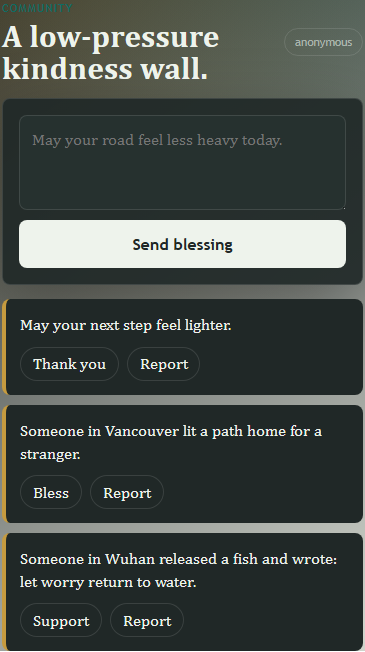
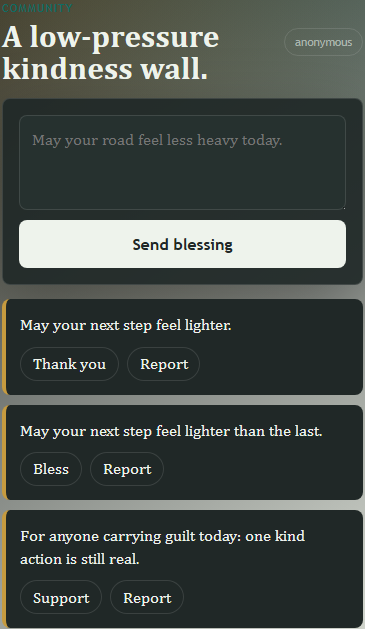
Add orchestration and shared catalog contracts

diff --git a/prototype/data.js b/prototype/data.js
@@ -17,14 +17,14 @@ window.FOOBOW_DATA = {
     },
     blessings: [
       {
-        id: "vancouver-path",
-        body: "Someone in Vancouver lit a path home for a stranger.",
+        id: "blessing_001",
+        body: "May your next step feel lighter than the last.",
         reaction: "Bless",
         reported: false
       },
       {
-        id: "wuhan-ripple",
-        body: "Someone in Wuhan released a fish and wrote: let worry return to water.",
+        id: "blessing_002",
+        body: "For anyone carrying guilt today: one kind action is still real.",
         reaction: "Support",
         reported: false
       }

diff --git a/apps/mobile/src/foobowData.ts b/apps/mobile/src/foobowData.ts
@@ -105,6 +105,6 @@ export const mapSpots: MapSpot[] = [
 ];
 
 export const initialBlessings = [
-  "Someone in Vancouver lit a path home for a stranger.",
-  "Someone in Wuhan released a fish and wrote: let worry return to water."
+  "May your next step feel lighter than the last.",
+  "For anyone carrying guilt today: one kind action is still real."
 ];

diff --git a/prototype/index.html b/prototype/index.html
@@ -153,11 +153,11 @@
           </form>
           <div class="blessing-list" id="blessingList">
             <article class="blessing">
-              <p>Someone in Vancouver lit a path home for a stranger.</p>
+              <p>May your next step feel lighter than the last.</p>
               <button type="button">Bless</button>
             </article>
             <article class="blessing">
-              <p>Someone in Wuhan released a fish and wrote: let worry return to water.</p>
+              <p>For anyone carrying guilt today: one kind action is still real.</p>
               <button type="button">Support</button>
             </article>
           </div>

diff --git a/docs/plugin-and-ai-orchestration.md b/docs/plugin-and-ai-orchestration.md
@@ -1,0 +1,59 @@
+# Plugin And AI Orchestration
+
+## Installed Plugin Inventory
+
+Foobow should use the currently available OpenAI plugin set this way:
+
+| Plugin | Status | Role In This Project | Setup Action |
+| --- | --- | --- | --- |
+| Browser | Installed | Local PA/QA, responsive checks, clickable prototype inspection, localhost verification | Use for product assurance before accepting UI changes |
+| GitHub | Installed | Repo status, pushes, CI checks, PR/issue work when credentials are available | Prefer for remote CI/PR work; fall back to `gh` only when needed |
+| Chrome | Installed | Checks that need the user's logged-in Chrome session | Use only when explicit Chrome state is required |
+| Computer Use | Installed | Windows desktop/terminal recovery when CLI/browser routes fail | Use sparingly for local app setup or auth flows |
+| Documents | Installed | Product specs, review docs, release notes in `.docx` form | Optional for stakeholder-ready documents |
+| Presentations | Installed | Pitch decks or investor/product presentations | Optional after product scope stabilizes |
+| Spreadsheets | Installed | Roadmaps, QA matrices, budget/donation models | Optional for planning and ops models |
+| Canva | Installed | Marketing visuals, presentation variants, social assets | Optional for external design collateral |
+
+No additional plugin is required for the current Foobow sprint. The useful setup is operational: keep Browser, GitHub, and Computer Use available for QA, CI, and Windows recovery; keep Documents/Presentations/Spreadsheets/Canva available for later go-to-market artifacts.
+
+## Plugin Usage Rules
+
+- Use Browser for real UI/UX acceptance, not just unit tests.
+- Use GitHub or `gh` to inspect remote CI after every push when the approval layer permits it.
+- Use Computer Use only when local auth or GUI state cannot be handled by shell/browser tools.
+- Use Canva only for product/design assets, not for source-of-truth product requirements.
+- Keep repo source-of-truth in markdown, tests, source code, and CI.
+
+## AI Agent Roles
+
+| Agent | Primary Role | Good Assignments | Avoid |
+| --- | --- | --- | --- |
+| Codex 5.5 | Orchestrator, implementation, tests, integration, final review | Repo edits, CI, DB/API work, browser QA, commits | Long speculative planning when another agent is below quota |
+| Claude 4.8 | Architecture review, product critique, copy review | Abstract plans, non-sensitive docs, design critique | Private repo context unless the user explicitly approves external transfer |
+| Gemini 3.5 | Broad ideation, task decomposition, alternate approaches | High-volume backlog shaping, copy variants, lightweight plans | Final code authority or private repo dumps without approval |
+
+## Usage Rotation Rules
+
+- Under 60% load: agent is available for normal assignments.
+- 60-79% load: agent should receive only high-fit tasks.
+- 80% or higher: rotate away from that agent and record the expected recovery time if known.
+- Unknown recovery time: mark `Unknown` and recheck on the next orchestration pass.
+- External AI use must respect privacy: do not send private repository content outside the local environment without explicit user approval.
+
+## VibeOrchestrator Loop
+
+1. Read `USAGE_DASHBOARD.md`, `docs/task-board.md`, `docs/project-plan.md`, and `git status`.
+2. Check available plugins/tools for the task type.
+3. Pick 3-5 tasks that are safe to complete without user credentials.
+4. Assign work by role and current load.
+5. Implement locally with tests first or tests alongside code.
+6. Run the narrow gate, then the wider gate appropriate to the change.
+7. Commit and push only verified work.
+8. Update `USAGE_DASHBOARD.md`, task board, and blockers.
+9. Recheck agent load and repeat until blocked or the sprint is complete.
+
+## Active Automation
+
+- `foobow-vibeorchestrator-usage-check`: heartbeat automation every 30 minutes in the current thread.
+- Purpose: reread dashboard/task state, rotate away from any agent at or above 80%, continue the next safe local sprint task, and report blockers or required input.

diff --git a/docs/shared-catalog-contract.md b/docs/shared-catalog-contract.md
@@ -1,0 +1,39 @@
+# Shared Catalog Contract
+
+Foobow uses `shared/foobow-catalog.json` as the canonical cross-surface catalog for product sample objects that appear in the prototype, mobile shell, API fixtures, and SQL seed data.
+
+## Covered Objects
+
+- Deed categories.
+- MVP deed types.
+- MVP map spots.
+- Anonymous blessing examples.
+- Verified donation campaign identifiers.
+
+## Why This Exists
+
+The app currently has several implementation surfaces:
+
+- Static clickable prototype.
+- Expo mobile shell.
+- Dependency-light API runtime fixtures.
+- Nest/Prisma backend target.
+- PostgreSQL SQL seed data.
+
+Those surfaces intentionally have different runtime formats, but their product objects should not drift. The catalog records the cross-surface identity map, such as:
+
+- Prototype ID: `release-fish`.
+- Public API ID: `deed_release_fish`.
+- SQL seed slug: `release-fish`.
+
+## Verification
+
+Run:
+
+```text
+npm run test:catalog
+```
+
+The check validates that canonical deeds, map spots, blessings, and donation campaigns are present in the current prototype, mobile data, API fixtures, and SQL seed data.
+
+`npm run test:all` also runs this catalog check.

diff --git a/USAGE_DASHBOARD.md b/USAGE_DASHBOARD.md
@@ -1,12 +1,12 @@
 # Foobow AI Team Usage Dashboard
 
-Last updated: 2026-06-07 20:44 America/Toronto
+Last updated: 2026-06-08 00:10 America/Toronto
 
 ## Current Load
 
 | Agent | 5h Window Used | Weekly Used | Requests Today | Est. Tokens In/Out | Load % | Last Task |
 | --- | ---: | ---: | ---: | ---: | ---: | --- |
-| Codex 5.5 | ~160 min | Unknown | 20 | ~118k in / ~26k out | 68% | Added local/CI Postgres smoke coverage, Prisma 7 adapter wiring, Nest Prisma write paths, and endpoint-level Nest DB smoke verification |
+| Codex 5.5 | ~195 min | Unknown | 24 | ~145k in / ~34k out | 79% | Added plugin/AI orchestration setup, heartbeat automation, shared catalog contract, and full local verification |
 | Claude 4.8 | ~4 min | Unknown | 3 | ~2.5k in / minimal out | 4% | Auth verified through Claude.ai Pro OAuth; minimal `claude -p` orchestration call now succeeds; repo-content prompt blocked by approval policy |
 | Gemini 3.5 | ~3 min | Unknown | 2 | ~5k in / ~1.5k out | 6% | Acknowledged executor readiness and produced full project plan + sprint backlog + Kanban |
 
@@ -15,7 +15,7 @@ Last updated: 2026-06-07 20:44 America/Toronto
 - Claude 4.8: deep planning, architecture, documentation. Use only while under 60% 5h load.
 - Gemini 3.5: high-volume execution, implementation support, creative alternatives. Prefer while under 70% load.
 - Codex 5.5: orchestration, diff review, integration, tests, DevOps, final decisions.
-- Reassign future tasks away from any agent at or above 80% 5h load.
+- Reassign future tasks away from any agent at or above 80% 5h load and record recovery time when visible.
 
 ## Current Repo State
 
@@ -32,6 +32,9 @@ Last updated: 2026-06-07 20:44 America/Toronto
 - Local PostgreSQL now runs through `docker compose up -d foobow-postgres` on port `55432`; schema/seed have been applied and verified locally.
 - Nest Prisma write paths are now implemented for account bootstrap, daily check-in, deed action plus karma event, blessings, reports, and donation idempotency.
 - CI now includes an Ubuntu PostgreSQL service job that applies SQL migration/seed and runs both direct Prisma and endpoint-level Nest DB smoke scripts.
+- Active automation: `foobow-vibeorchestrator-usage-check` wakes this thread every 30 minutes to recheck usage, rotate agents, inspect task state, and continue safe local sprint work.
+- Plugin setup status: Browser, GitHub, Chrome, Computer Use, Documents, Presentations, Spreadsheets, Canva, and thread/automation tools are available; no extra plugin install is required for the current sprint.
+- Shared catalog status: `shared/foobow-catalog.json` plus `npm run test:catalog` now verifies prototype, mobile, API fixture, and SQL seed product-object alignment.
 
 ## Last Sync Notes
 
@@ -49,3 +52,6 @@ Last updated: 2026-06-07 20:44 America/Toronto
 - `npm --prefix apps/api run prisma:smoke` passed against local Postgres after aligning the SQL migration with Prisma donation payment provider columns.
 - `npm --prefix apps/api run nest:db-smoke` passed after making Nest controller/service DI explicit for the `tsx` runtime used by local smoke and CI.
 - Remote CI run inspection is temporarily blocked by the Codex approval layer usage limit; local gates and pushes succeeded.
+- External AI policy: Claude/Gemini may be used for non-sensitive planning, but private repo context should not be sent externally without explicit user approval.
+- Latest local gate: `npm run test:all` passed after plugin orchestration and shared catalog changes; mobile/browser/visual gates are green after refreshing the mobile dark community baseline.
+- Rotation note: Codex is now near the 80% threshold; next orchestration pass should prefer Claude/Gemini for non-sensitive planning or pause external assignment until Codex capacity recovers.

diff --git a/README.md b/README.md
@@ -85,6 +85,8 @@ Foobow should feel calm, premium, emotionally warm, and trustworthy. It should a
 - [Localization Workflow](docs/localization-workflow.md)
 - [Mobile Release Checklist](docs/mobile-release-checklist.md)
 - [Node Readiness](docs/node-readiness.md)
+- [Plugin And AI Orchestration](docs/plugin-and-ai-orchestration.md)
+- [Shared Catalog Contract](docs/shared-catalog-contract.md)
 - [Memory](memory.md)
 
 ## Verification

diff --git a/docs/task-board.md b/docs/task-board.md
@@ -58,6 +58,8 @@
 - Convert Nest account, check-in, deed action, blessing, report, and donation paths to Prisma-backed persistence with fixture fallback.
 - Add local Prisma write smoke script for account creation, daily check-in, deed completion, blessing/report creation, and donation idempotency.
 - Add CI PostgreSQL service smoke job for schema, seed, Prisma-backed write-path verification, and endpoint-level Nest HTTP verification.
+- Add plugin inventory, AI agent role assignment, usage rotation rules, and VibeOrchestrator heartbeat automation.
+- Add shared catalog contract and verification gate for prototype/mobile/API/SQL seed product-object alignment.
 
 ## Next
 